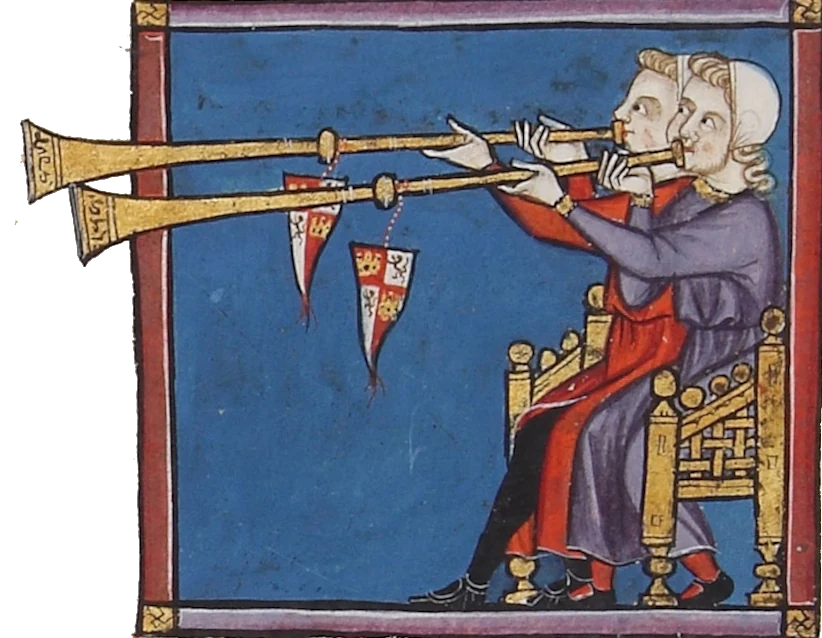
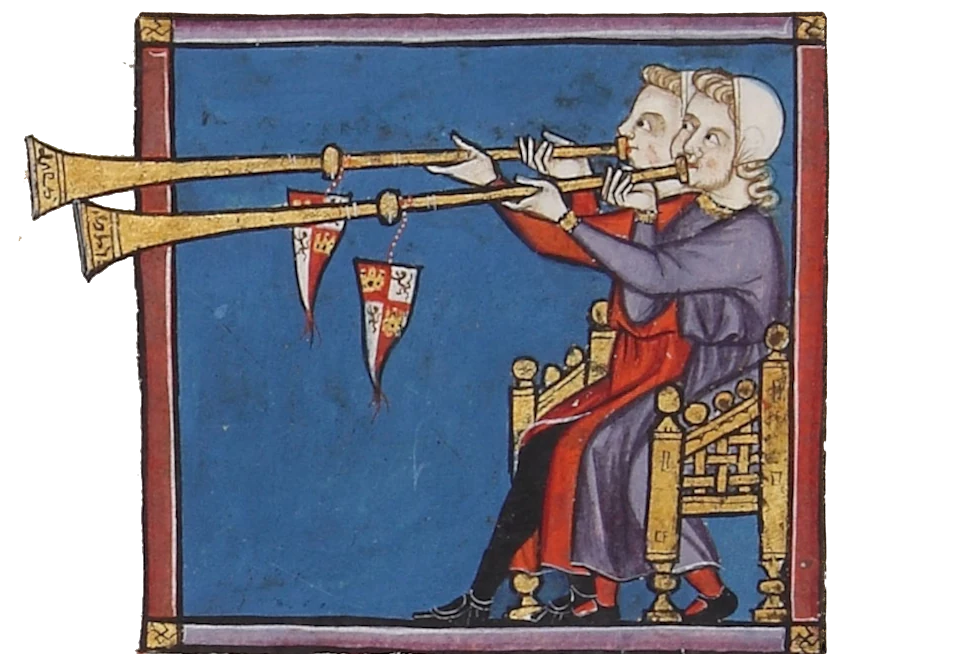
App: fixed añafil illustration, drop its offset

diff --git a/apps/app/src/routes/index.tsx b/apps/app/src/routes/index.tsx
@@ -109,7 +109,7 @@ function HomePage() {
           alt="Two heralds blowing long trumpets, from the Cantigas de Santa María"
           width={822}
           height={638}
-          className="mx-auto h-auto w-full max-w-sm -translate-x-[8.2%]"
+          className="mx-auto h-auto w-full max-w-sm"
         />
         <Ornament name="running-vine" className="mx-auto h-8 w-64 text-primary-strong" />
         <BarBorder>
